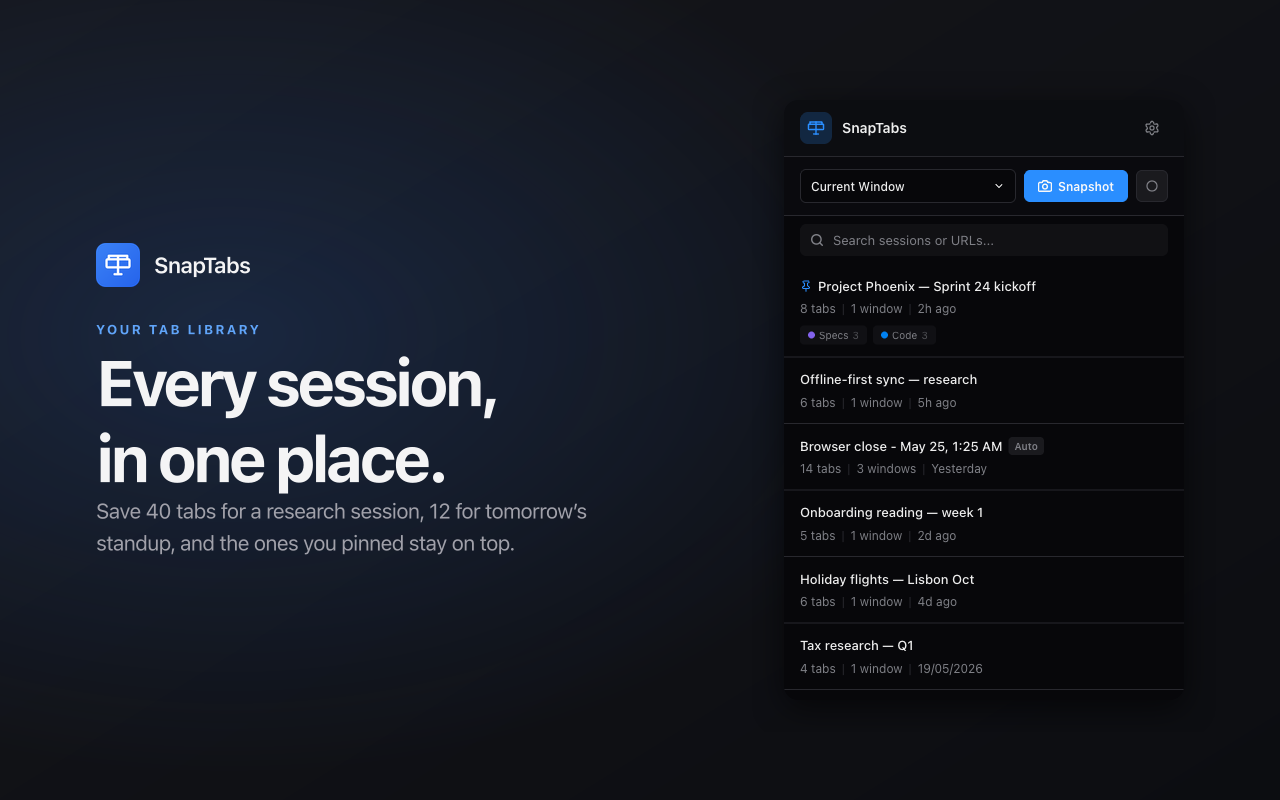
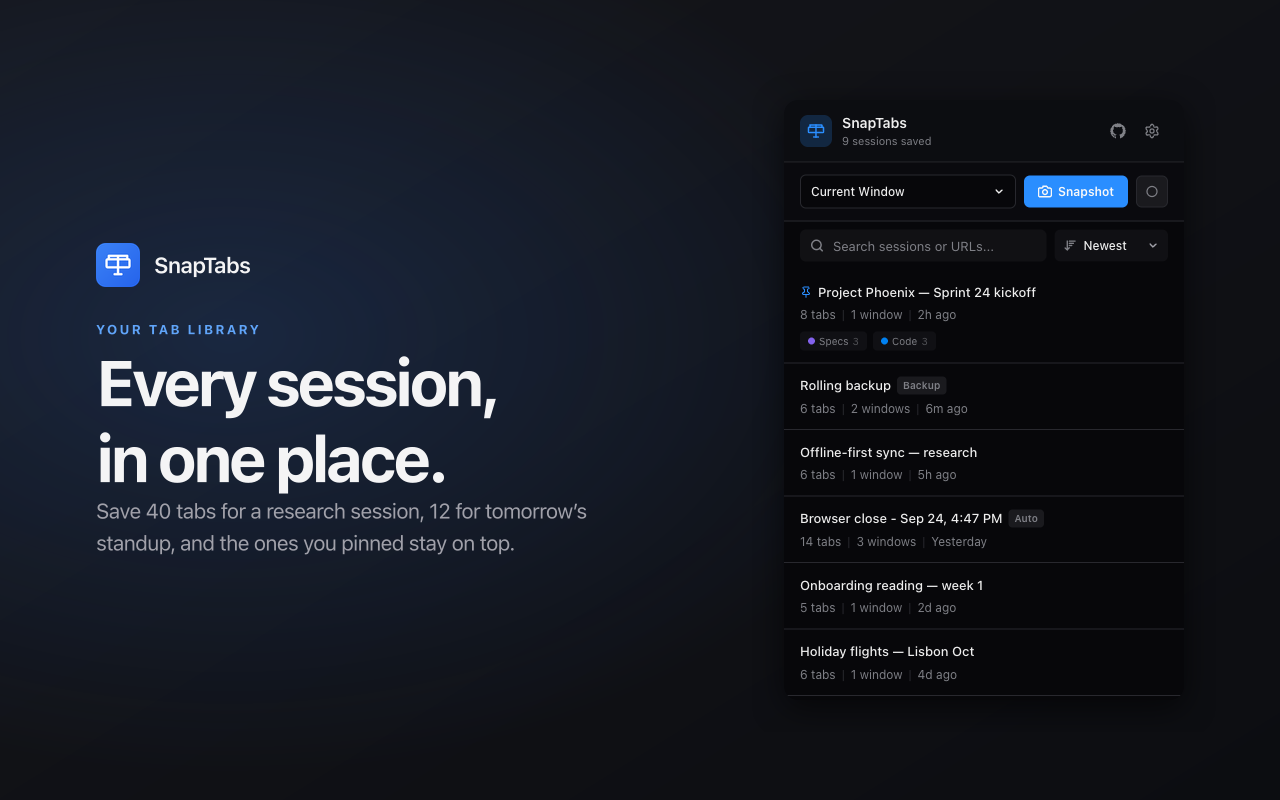
Refresh store screenshots for v1.9 and add a fifth
- New 5-auto-save.png ("Never lose your tabs"): top of Settings with
  save on browser close on and the rolling backup at 15 minutes.
- Demo data gains a "Rolling backup" session, so the main view shows the
  Backup badge; 4-settings now also shows Sleep restored tabs.
- The capture script seeds a dismissed rating prompt, so the one-time
  banner can never appear in listing images.
- STORE_LISTING: upload order for the 5 screenshots, a Privacy practices
  section with the single-purpose statement and a justification for
  every permission (new: alarms), and the uninstall form under Privacy.
- README and scripts/README updated for the fifth screenshot.

diff --git a/scripts/capture-screenshots.ts b/scripts/capture-screenshots.ts
@@ -31,11 +31,14 @@ async function seedSession(sw: Awaited<ReturnType<typeof getServiceWorker>>, dat
 }
 
 async function clearAll(sw: Awaited<ReturnType<typeof getServiceWorker>>) {
-  await sw.evaluate(() => {
-    chrome.storage.local.clear();
-    chrome.storage.session.clear();
+  await sw.evaluate(async () => {
+    await chrome.storage.local.clear();
+    await chrome.storage.session.clear();
   });
 }
+
+// Keep the one-time rating banner out of store screenshots.
+const NO_RATING_BANNER = { [KEYS.meta]: { statsBackfilled: true, ratingPromptDone: true, stats: {} } };
 
 async function waitForPopupReady(page: import('@playwright/test').Page) {
   await page.waitForSelector('.popup', { state: 'visible' });
@@ -77,29 +80,31 @@ async function main() {
   const demoRecording = buildDemoRecording();
 
   // ── 1. Main view: rich session list (8 sessions, pinned at top) ──
-  console.log('[capture] 1/4 main view');
+  console.log('[capture] 1/5 main view');
   await clearAll(sw);
   await seedLocal(sw, {
     [KEYS.sessions]: demoSessions,
     [KEYS.settings]: demoSettings,
+    ...NO_RATING_BANNER,
   });
   await popup.goto(popupUrl);
   await waitForPopupReady(popup);
   await popup.screenshot({ path: path.join(RAW_DIR, '1-main.png') });
 
   // ── 2. Session detail: Phoenix, two tab groups visible ──
-  console.log('[capture] 2/4 session detail');
-  await popup.locator('.card').first().click();
+  console.log('[capture] 2/5 session detail');
+  await popup.locator('.card').filter({ hasText: 'Project Phoenix' }).click();
   await popup.waitForSelector('.detail', { state: 'visible' });
   await popup.waitForTimeout(250);
   await popup.screenshot({ path: path.join(RAW_DIR, '2-detail.png') });
 
   // ── 3. Recording in progress: bar visible with elapsed timer ──
-  console.log('[capture] 3/4 recording');
+  console.log('[capture] 3/5 recording');
   await clearAll(sw);
   await seedLocal(sw, {
     [KEYS.sessions]: demoSessions,
     [KEYS.settings]: demoSettings,
+    ...NO_RATING_BANNER,
   });
   await seedSession(sw, {
     [KEYS.recording]: demoRecording,
@@ -110,11 +115,12 @@ async function main() {
   await popup.screenshot({ path: path.join(RAW_DIR, '3-recording.png') });
 
   // ── 4. Settings: scrolled to the Snapshot section so excluded-domain chips are visible ──
-  console.log('[capture] 4/4 settings');
+  console.log('[capture] 4/5 settings');
   await clearAll(sw);
   await seedLocal(sw, {
     [KEYS.sessions]: demoSessions,
     [KEYS.settings]: demoSettings,
+    ...NO_RATING_BANNER,
   });
   await popup.goto(popupUrl);
   await waitForPopupReady(popup);
@@ -133,6 +139,15 @@ async function main() {
   });
   await popup.waitForTimeout(250);
   await popup.screenshot({ path: path.join(RAW_DIR, '4-settings.png') });
+
+  // ── 5. Auto-Save: top of Settings with save-on-close and rolling backup on ──
+  console.log('[capture] 5/5 auto-save');
+  await popup.evaluate(() => {
+    const body = document.querySelector('.settings-body') as HTMLElement | null;
+    if (body) body.scrollTop = 0;
+  });
+  await popup.waitForTimeout(250);
+  await popup.screenshot({ path: path.join(RAW_DIR, '5-auto-save.png') });
 
   await context.close();
   console.log(`[capture] Done. Raw PNGs in ${path.relative(ROOT, RAW_DIR)}/`);

diff --git a/scripts/demo-data.ts b/scripts/demo-data.ts
@@ -31,6 +31,27 @@ export function buildDemoSessions(now: number = Date.now()): Session[] {
   const olderAutoSaveTs = now - 14 * DAY;
 
   return [
+    // v1.9 rolling backup: refreshed a few minutes ago, shown with the
+    // "Backup" badge near the top of the list.
+    {
+      id: 'demo-backup',
+      name: 'Rolling backup',
+      timestamp: now - 6 * 60_000,
+      tabs: withIndex([
+        tab('https://github.com/acme/phoenix/pulls', 'Pull requests · acme/phoenix', { windowId: 1 }),
+        tab('https://linear.app/acme/team/PHX/active', 'Active issues · Phoenix', { windowId: 1 }),
+        tab('https://docs.google.com/document/d/1q2w3e/edit', 'Q3 planning — Google Docs', { windowId: 1 }),
+        tab('https://calendar.google.com/calendar/u/0/r/week', 'Google Calendar — This week', { windowId: 1 }),
+      ]).concat(withIndex([
+        tab('https://news.ycombinator.com/', 'Hacker News', { windowId: 2 }),
+        tab('https://www.youtube.com/watch?v=dQw4', 'Svelte 5 runes deep dive — YouTube', { windowId: 2 }),
+      ])),
+      tabGroups: [],
+      windowCount: 2,
+      hasIncognitoTabs: false,
+      isAutoSave: true,
+      isBackup: true,
+    },
     {
       id: 'demo-phoenix',
       name: 'Project Phoenix — Sprint 24 kickoff',
@@ -176,12 +197,13 @@ export function buildDemoSessions(now: number = Date.now()): Session[] {
   ];
 }
 
-// ── Settings (showcase the v1.4.0 + v1.5.0 features) ──
+// ── Settings (showcase the auto-save, rolling backup, and excluded-domain features) ──
 
 export const demoSettings: SnapTabsSettings = {
   ...DEFAULT_SETTINGS,
   autoSnapshotOnBrowserClose: true,
   autoSnapshotOnClose: true,
+  autoBackupMinutes: 15,
   warnOnDuplicateSnapshot: true,
   excludedDomains: [
     'mail.google.com',

diff --git a/scripts/compose-screenshots.ts b/scripts/compose-screenshots.ts
@@ -72,6 +72,13 @@ const slides: Slide[] = [
     headline: 'You decide\nwhat’s saved.',
     subhead: 'Exclude domains you never want captured — banking, mail, internal tools. Subdomains match the parent rule.',
   },
+  {
+    raw: '5-auto-save.png',
+    out: '5-auto-save.png',
+    eyebrow: 'Crash protection',
+    headline: 'Never lose\nyour tabs.',
+    subhead: 'Save every window when you quit, plus a rolling backup every few minutes, so a crash or a closed window never costs you your work.',
+  },
 ];
 
 function escapeXml(s: string): string {

diff --git a/STORE_LISTING.md b/STORE_LISTING.md
@@ -13,7 +13,7 @@ The Chrome Web Store uses different images in different surfaces. Missing any of
 | Extension icon | 128×128 | `src/public/icon/128.png` | Manifest icon (auto) | Detail page, install button |
 | Small promo tile | **440×280** | `screenshots/store/promo-small-440x280.png` | "Small promo tile" | **Search autocomplete**, category lists, related items |
 | Marquee promo tile | 1400×560 | `screenshots/store/promo-marquee-1400x560.png` | "Marquee promo tile" | Featured placement, homepage carousel |
-| Screenshots (up to 5) | 1280×800 | `screenshots/store/1-main-view.png`, etc. | "Screenshots" | Detail page gallery |
+| Screenshots (5) | 1280×800 | `screenshots/store/1-main-view.png` … `5-auto-save.png` | "Screenshots" | Detail page gallery |
 
 **If your listing shows the name with no icon in search suggestions, the small promo tile is most likely missing.** Upload `promo-small-440x280.png` in the dashboard under *Store listing → Graphic assets → Small promo tile*.
 
@@ -46,14 +46,15 @@ Run through this for every CWS submission so the listing never lags the source a
 
 1. **Bump version** in `package.json` and update `CHANGELOG.md` with the new entry.
 2. **Run tests + build**: `npm test` and `npm run build` both clean.
-3. **Regenerate listing screenshots**: `npm run screenshots` (builds, captures four popup views with the realistic demo data in `scripts/demo-data.ts`, composites onto branded 1280×800 canvases in `screenshots/store/`). Visually skim each PNG. If a new feature deserves a screenshot, edit `scripts/demo-data.ts` and add a slide in `scripts/compose-screenshots.ts`.
+3. **Regenerate listing screenshots**: `npm run screenshots` (builds, captures five popup views with the realistic demo data in `scripts/demo-data.ts`, composites onto branded 1280×800 canvases in `screenshots/store/`). Visually skim each PNG. If a new feature deserves a screenshot, edit `scripts/demo-data.ts` and add a slide in `scripts/compose-screenshots.ts`.
 4. **Regenerate promo tiles only if the SVGs changed**: `npm run promo`.
 5. **Update the listing copy** below (long description, features, FAQ) to reflect any new features in this release.
 6. **Build the upload zip**: `npm run zip` → produces `.output/snaptabs-<version>-chrome.zip`.
 7. **Upload to the CWS Developer Dashboard**:
    - Item page → Package tab → upload the new zip.
-   - Store listing tab → Graphic assets → re-upload the 4 screenshots from `screenshots/store/`.
+   - Store listing tab → Graphic assets → re-upload the 5 screenshots from `screenshots/store/`, in this order: `1-main-view`, `5-auto-save`, `2-session-detail`, `3-recording`, `4-settings` (the first two show in search results and matter most).
    - Store listing tab → paste the updated long description / features / FAQ from this file.
+   - Privacy practices tab → if the permissions changed, add a justification for each new one (see **Privacy practices tab** below).
    - Save draft, then Submit for review.
 8. **Merge the release PR** to `main` once submitted.
 
@@ -143,6 +144,7 @@ Restore into the current window or a fresh one. Sessions saved from several wind
 - No cloud sync, no backend service
 - No analytics, no tracking, no outbound requests
 - No account required
+- If you uninstall, an optional one-question feedback form opens. Nothing is sent with it
 - Open source. Every line of code is auditable on GitHub
 
 ## Permissions (five, all minimum-necessary)
@@ -154,6 +156,27 @@ Restore into the current window or a fresh one. Sessions saved from several wind
 - **alarms**: schedule the optional rolling backup
 
 No network permission. No history permission. No cookie or identity access.
+
+## Privacy practices tab (developer dashboard)
+
+Not shown on the listing. The dashboard's **Privacy practices** tab asks for a single-purpose statement and a justification for every permission. v1.9.0 adds `alarms`; paste the text below. (`alarms` shows no install-time warning, so updating users are not asked to re-approve anything and the extension is not disabled.)
+
+**Single purpose**
+> SnapTabs saves the user's open browser tabs as named sessions (including tab groups, pinned and incognito tabs) and restores them later, entirely on the user's device.
+
+**Permission justifications**
+
+| Permission | Justification |
+|---|---|
+| `tabs` | Read the URL, title, and position of open tabs to save them as a session, and create tabs to restore a saved session. |
+| `tabGroups` | Read tab group names, colors, and collapsed state so they are saved with a session, and recreate the groups on restore. |
+| `storage` | Store saved sessions and settings locally with chrome.storage. Nothing is synced or sent off the device. |
+| `contextMenus` | Adds a "Save all tabs with SnapTabs" item to the extension icon's right-click menu. |
+| `alarms` | Schedules the optional Rolling backup, which the user can turn on to refresh a local backup of their open tabs every 5 to 60 minutes. No network activity. |
+
+**Remote code:** No, I am not using remote code.
+
+**Data usage:** unchanged by this release. The extension still transmits no user data. The uninstall form is a Google Form the browser opens after uninstall; anything in it is typed and submitted voluntarily by the person, and the extension attaches nothing to it.
 
 ## FAQ
 

diff --git a/scripts/README.md b/scripts/README.md
@@ -13,31 +13,31 @@ npm run screenshots
 Runs three steps:
 
 1. `npm run build` — produces `.output/chrome-mv3/` from current source.
-2. `npm run screenshots:capture` (`scripts/capture-screenshots.ts`) — launches Chromium with the built extension, seeds the realistic demo data from `scripts/demo-data.ts` into `chrome.storage`, navigates the popup through four views, and writes raw 400×600 PNGs into `screenshots/store/raw/`.
+2. `npm run screenshots:capture` (`scripts/capture-screenshots.ts`) — launches Chromium with the built extension, seeds the realistic demo data from `scripts/demo-data.ts` into `chrome.storage`, navigates the popup through five views, and writes raw 400×600 PNGs into `screenshots/store/raw/`.
 3. `npm run screenshots:compose` (`scripts/compose-screenshots.ts`) — composites each raw popup onto a 1280×800 branded canvas with a feature-specific headline and subhead on the open side, soft drop shadow, and rounded corners. Writes final PNGs into `screenshots/store/`.
 
 You can run each step independently if needed (e.g. iterate on the compose step's visual treatment without re-launching the browser).
 
-### The four views captured
+### The five views captured
 
 | Output | View | Highlights |
 |---|---|---|
-| `1-main-view.png` | Main popup, 8 sessions seeded | Pinned session at top, tab-group chips, mix of manual + auto-save badges |
+| `1-main-view.png` | Main popup, 9 sessions seeded | Pinned session at top, Rolling backup with its Backup badge, tab-group chips, mix of manual + auto-save badges |
 | `2-session-detail.png` | Project Phoenix detail | Two colored tab groups (Specs purple, Code blue), real-looking tab titles |
 | `3-recording.png` | Live recording active | Red REC bar with elapsed timer, recent-tabs preview, session list visible below |
-| `4-settings.png` | Settings scrolled to Snapshot section | Excluded-domain chips visible (mail, bank, 1password, internal.acme.com), v1.5.0 pill |
+| `4-settings.png` | Settings scrolled to Snapshot section | Excluded-domain chips visible (mail, bank, 1password, internal.acme.com), Restore section with Sleep restored tabs |
+| `5-auto-save.png` | Settings scrolled to the top | Save on browser close on, Rolling backup at 15 min |
 
 ### Changing the demo content
 
 All seed data lives in `scripts/demo-data.ts`:
 
-- `buildDemoSessions(now?)` — array of 8 sessions. Timestamps are computed relative to `now` (defaults to capture time) so the "Just now / 23h ago / 2d ago" displays stay fresh release after release.
+- `buildDemoSessions(now?)` — array of 9 sessions (including the rolling backup). Timestamps are computed relative to `now` (defaults to capture time) so the "Just now / 23h ago / 2d ago" displays stay fresh release after release.
 - `demoSettings` — feature-rich settings with excluded domains populated and all auto-save toggles on.
 - `buildDemoRecording()` — recording state computed at runtime (the elapsed timer is live, so a static timestamp would render `-N:NN` once the source file ages).
 
 When you add a new feature worth showcasing, either:
-- Extend `demo-data.ts` and `compose-screenshots.ts`'s `slides` array to add a fifth screenshot (CWS allows up to 5), or
-- Replace one of the existing four if the new feature deserves the spot more than what's there.
+- Replace one of the existing five (CWS allows at most 5) if the new feature deserves the spot more than what's there. The capture script also seeds a dismissed rating prompt so the one-time banner never appears in listing images.
 
 ### Visual treatment
 

diff --git a/README.md b/README.md
@@ -61,13 +61,15 @@ The point is not to keep 200 tabs open. The point is to close them without losin
 
 ## Screenshots
 
-![Every session in one place — the main view with eight saved sessions including a pinned project session with two tab groups](screenshots/store/1-main-view.png)
+![Every session in one place — the main view with saved sessions including a pinned project session with two tab groups and the rolling backup](screenshots/store/1-main-view.png)
 
 ![Tab groups, intact — session detail showing Specs and Code groups expanded with real tab titles](screenshots/store/2-session-detail.png)
 
 ![Capture as you browse — live recording in progress with elapsed timer and recent-tabs preview](screenshots/store/3-recording.png)
 
 ![You decide what's saved — settings with excluded-domain chips for banking, mail, and internal tools](screenshots/store/4-settings.png)
+
+![Never lose your tabs — Auto-Save settings with save on browser close and a 15-minute rolling backup](screenshots/store/5-auto-save.png)
 
 ## FAQ
 
